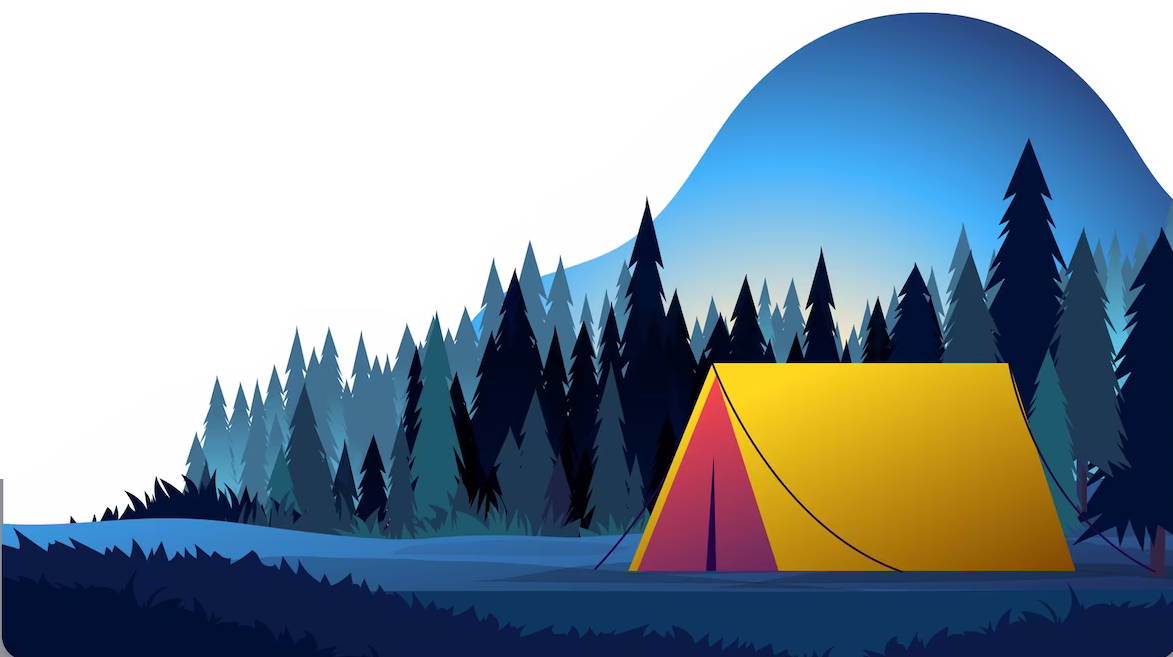
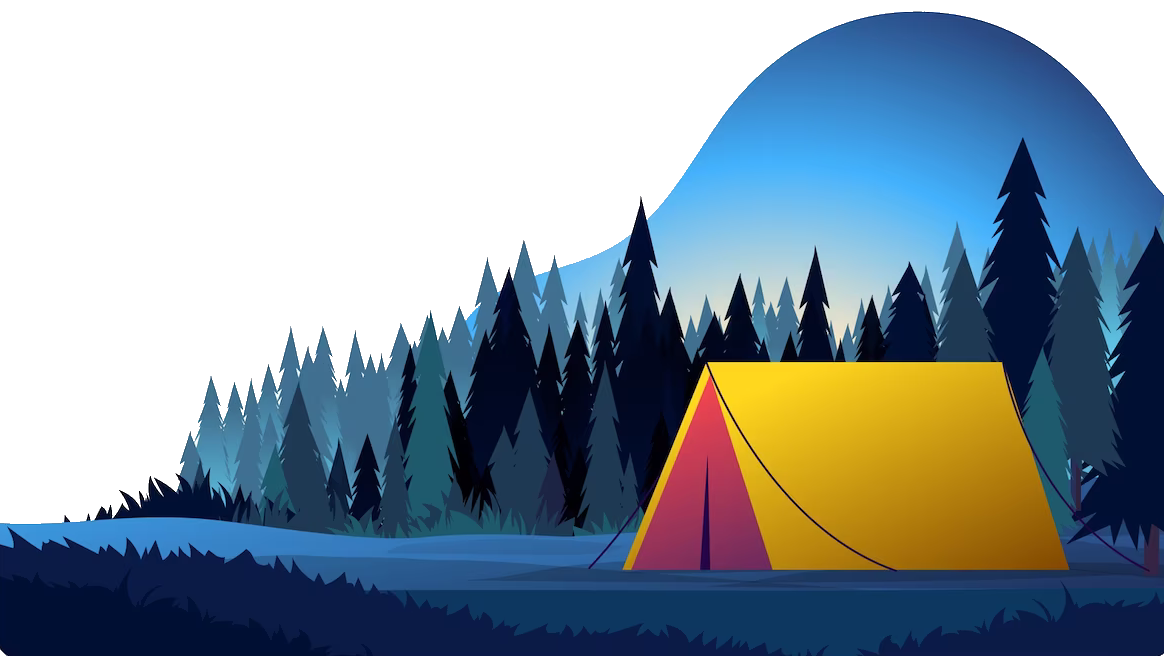
Final style

diff --git a/index.html b/index.html
@@ -8,47 +8,45 @@
 </head>
 
 <body>
-   <!--<style>
+        <style>
         body{
-            background-image:url(picture);
+            background-image:url(./camping-1.png);
             background-repeat: no-repeat;
             background-attachment: fixed;
             background-position: center;
         }
-        </style> dar ne laikas
-        --> 
-    <main style="width:90%; margin-left: 5%; margin-top: 5%;">
-        <header>
-            <div>
-                <h4 style=" font-size: 20px; color:black;">
-                    YOUR LOGO</h4>
+        </style>
+    
+    <main style="width: 60%; margin-left: 20%;">
+        <header style="display: block;">
+            <div style="display: inline-block; width: 45%;">
+                <h4 style="margin-bottom: 10px;font-size: 20px; color:black; font-family:Verdana, Geneva, Tahoma, sans-serif; text-transform:capitalize ; ">Your logo</h4>
             </div>
 
-            <div>
-                <h5 style="font-size: 20px; color: gray; font-weight: lighter;">
-                <a href="">Home</a>
-                <a href="">Service</a>
-                <a href="">Portfolio</a>
-                <a href="">Contac Us</a>
-                </h5>
+            <div style=" display: inline-block; width:45%; text-decoration: none">
+                <h6 style="font-weight: unset; margin-bottom: 10px; font-size: 15px; color:gray; text-decoration: none; font-family: 'Lucida Sans', 'Lucida Sans Regular', 'Lucida Grande', 'Lucida Sans Unicode', Geneva, Verdana, sans-serif; text-transform: capitalize; ">
+                <a href="" style="text-decoration: none; color:gray; width:25%; display: inline-block ;" >Home</a>
+                <a href="" style="text-decoration: none; color:gray; width:25%; display: inline-block ;" >Service</a>
+                <a href="" style="text-decoration: none; color:gray; width:25%; display: inline-block ;" >Portfolio</a>
+                <a href="" style="text-decoration: none; color:gray; width:20%; display: inline-block ;" >Contac us</a>
+                </h6>
             </div>
 
-            <div>
-                <h4>MENU</h4>
+            <div style="display: inline-block; width:8%;">
+                <h4 style="margin-bottom: 10px; text-align: right;" >MENU</h4>
             </div>
 
         </header>
 
-        <div>
-            <h1 style="font-size: 35px; font-weight: bolder;">Time to Travel</h1>
-            <h6>Tekstas Tekstas Tekstas Tekstas 
-            Tekstas Tekstas Tekstas Tekstas</h6>
-            <a>Learn More</a>
+        <div style="margin-top: 150px;">
+            <h1 style="font-size: 35px; font-weight: bolder; font-family:Verdana, Geneva, Tahoma, sans-serif; ">Time to Travel</h1>
+            <h6 style="width: 40%; color: darkgray; font-size: 10px; font-family: 'Lucida Sans', 'Lucida Sans Regular', 'Lucida Grande', 'Lucida Sans Unicode', Geneva, Verdana, sans-serif;" >Tekstas Tekstas Tekstas Tekstas Tekstas Tekstas Tekstas Tekstas Tekstas Tekstas Tekstas Tekstas Tekstas Tekstas Tekstas Tekstas Tekstas Tekstas Tekstas Tekstas Tekstas Tekstas Tekstas Tekstas Tekstas Tekstas Tekstas Tekstas Tekstas Tekstas Tekstas Tekstas Tekstas Tekstas Tekstas Tekstas Tekstas Tekstas Tekstas Tekstas Tekstas Tekstas</h6>
+            <a style="border-radius: 20px; background-color: rgba(255, 196, 0, 0.938); font-size: 12px; padding:10px; padding-left: 30px; padding-right: 30px; border: solid 1px none; font-family: Arial, Helvetica, sans-serif;">Learn More</a>
         </div>
 
     </main>
 
-    <img src="./camping-1.png" alt="Camping">
+    <!--<img src="./camping-1.png" alt="Camping">-->
 
 </body>
 
